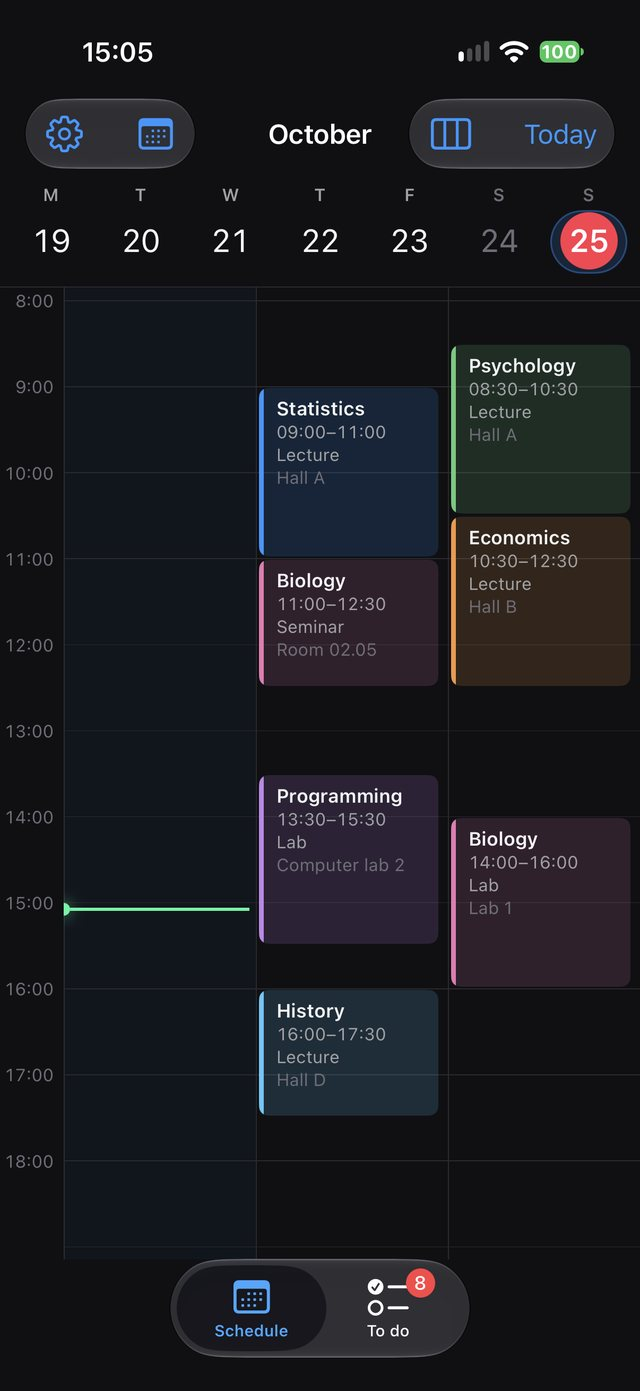
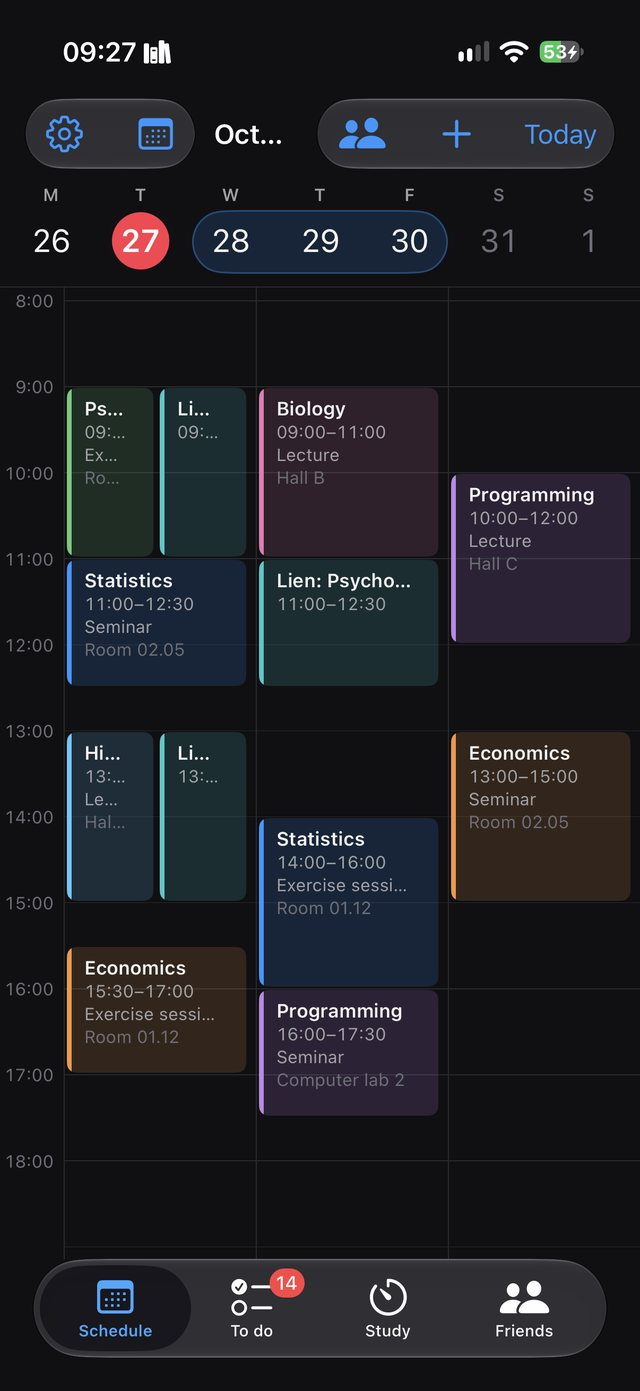
Website: screenshots van 1.2 in plaats van de oude
Rooster, studeermodus en vrienden met iPhone-screenshots van 1.2,
inhaalplan en 'overal' met iPad-screenshots van 1.2. Geen Mac-beelden
meer; de oude widget-sectie is een rij met extra functies geworden.

Claude-Session: https://claude.ai/code/session_01LexhzZ6Wy9ztQzGprxuc9f

diff --git a/index.html b/index.html
@@ -85,6 +85,7 @@ h2{font-size:clamp(36px,6.4vw,64px);line-height:1.05}
 .telefoons{display:flex;justify-content:center;align-items:flex-start;gap:clamp(16px,4vw,48px);margin-top:64px}
 .telefoon{width:min(300px,44vw);border-radius:clamp(26px,5.4vw,46px);overflow:hidden;background:#000;box-shadow:0 0 0 clamp(5px,1vw,9px) #1D1D1F,0 0 0 clamp(6px,1.15vw,10px) #3A3A3E,0 30px 60px -20px rgba(0,0,0,.45)}
 .telefoon.laag{margin-top:clamp(24px,6vw,64px)}
+.ipad{width:100%;max-width:980px;margin:64px auto 0;border-radius:clamp(14px,2.6vw,30px);overflow:hidden;background:#000;box-shadow:0 0 0 clamp(6px,1.2vw,12px) #1D1D1F,0 0 0 clamp(7px,1.35vw,13px) #3A3A3E,0 40px 80px -30px rgba(0,0,0,.55)}
 .mac{width:100%;max-width:980px;margin:64px auto 0;border-radius:14px;overflow:hidden;box-shadow:0 0 0 1px rgba(255,255,255,.08),0 40px 80px -30px rgba(0,0,0,.6)}
 .licht .mac{box-shadow:0 0 0 1px rgba(0,0,0,.08),0 40px 80px -30px rgba(0,0,0,.35)}
 
@@ -166,11 +167,10 @@ footer .rechts{margin-left:auto}
     <div class="kop op">
       <p class="oog blauw">Rooster</p>
       <h2>Je lessen, gewoon uit Agenda.</h2>
-      <p class="lead">Skipped leest je uurrooster uit Apple Agenda. Een gevolgde les kleurt <strong>blauw</strong>, een gemiste krijgt een <strong>rood</strong> pilletje, en de lijn toont waar je dag nu staat.</p>
+      <p class="lead">Skipped leest je uurrooster uit Apple Agenda. Een gevolgde les kleurt <strong>blauw</strong>, een gemiste krijgt een <strong>rood</strong> pilletje, en de lijn toont waar je dag nu staat. Wil je, dan zie je ook de lessen van een vriend in je rooster.</p>
     </div>
     <div class="telefoons op">
       <img class="telefoon" src="img/iphone-rooster.jpg" width="640" height="1391" alt="Weekrooster in Skipped met lessen per dag" loading="lazy">
-      <img class="telefoon laag" src="img/iphone-les.jpg" width="640" height="1391" alt="Een les met notitie en taken" loading="lazy">
     </div>
   </div>
 </section>
@@ -183,10 +183,7 @@ footer .rechts{margin-left:auto}
       <h2>Gemist? Je inhaalplan staat klaar.</h2>
       <p class="lead">Elke les die je mist, komt in <strong>Te doen</strong>, netjes per vak. Vink ze af zodra je ze ingehaald hebt, en zie per vak hoeveel je nog moet.</p>
     </div>
-    <div class="telefoons op">
-      <img class="telefoon" src="img/iphone-tedoen.jpg" width="640" height="1391" alt="Te doen: gemiste lessen per vak" loading="lazy">
-      <img class="telefoon laag" src="img/iphone-voortgang.jpg" width="640" height="1391" alt="Voortgang per vak" loading="lazy">
-    </div>
+    <img class="ipad op" src="img/ipad-voortgang.jpg" width="1800" height="1241" alt="Te doen en voortgang per vak op de iPad" loading="lazy">
   </div>
 </section>
 
@@ -197,7 +194,9 @@ footer .rechts{margin-left:auto}
       <h2>Focus, met de klok mee.</h2>
       <p class="lead">Start een blok voor een vak en Skipped houdt bij hoeveel je deze week studeerde. Wil je, dan blijven afleidende apps dicht tot je blok klaar is.</p>
     </div>
-    <img class="mac op" src="img/mac-studeren.jpg" width="1800" height="1125" alt="Studeermodus met timer en studietijd per week" loading="lazy">
+    <div class="telefoons op">
+      <img class="telefoon" src="img/iphone-studeren.jpg" width="640" height="1391" alt="Studeermodus met timer en studietijd per week" loading="lazy">
+    </div>
     <div class="feiten op">
       <div class="feit"><b>Jouw ritme</b><span>Vrij, pomodoro of een vaste tijd.</span></div>
       <div class="feit"><b>Altijd in zicht</b><span>De timer loopt mee op je toegangsscherm en in het Dynamic Island.</span></div>
@@ -213,19 +212,22 @@ footer .rechts{margin-left:auto}
       <h2>Samen hou je het vol.</h2>
       <p class="lead">Zie wie er nu aan het studeren is en hoeveel uur je vrienden maakten. Start een groep voor de examens en kijk wie het meest studeert. <strong>Jij kiest</strong> per vriend en per groep wat je deelt.</p>
     </div>
-    <img class="mac op" src="img/mac-vrienden.jpg" width="1800" height="862" alt="Vrienden en groepen in Skipped, met voorbeeldvrienden" loading="lazy">
+    <div class="telefoons op">
+      <img class="telefoon" src="img/iphone-vrienden.jpg" width="640" height="1391" alt="Vrienden in Skipped, met voorbeeldvrienden" loading="lazy">
+    </div>
   </div>
 </section>
 
-<section class="licht" id="widget">
+<section class="licht" id="meer">
   <div class="binnen">
     <div class="kop op">
-      <p class="oog blauw">Widgets</p>
-      <h2>Je dag in één oogopslag.</h2>
-      <p class="lead">Op je beginscherm zie je je volgende les en wat je nog moet inhalen. Afvinken kan meteen in de widget.</p>
+      <p class="oog blauw">En nog meer</p>
+      <h2>Alles wat je nodig hebt.</h2>
     </div>
-    <div class="telefoons op">
-      <img class="telefoon" src="img/iphone-widgets.jpg" width="640" height="1391" alt="Widgets van Skipped op het beginscherm" loading="lazy">
+    <div class="feiten op">
+      <div class="feit"><b>Widgets</b><span>Je volgende les en wat je nog moet inhalen, op je beginscherm. Afvinken kan meteen in de widget.</span></div>
+      <div class="feit"><b>Notities en taken</b><span>Bij elke les een notitie en taken, met een datum als je wilt.</span></div>
+      <div class="feit"><b>Focus</b><span>Koppel de studeermodus aan een Focus via Opdrachten.</span></div>
     </div>
   </div>
 </section>
@@ -237,7 +239,7 @@ footer .rechts{margin-left:auto}
       <h2>Overal hetzelfde rooster.</h2>
       <p class="lead">Via iCloud gaan je vakken, notities en studiesessies mee naar je andere toestellen. Je hoeft geen account te maken.</p>
     </div>
-    <img class="mac op" src="img/mac-rooster.jpg" width="1800" height="1125" alt="Skipped op de Mac met het weekrooster" loading="lazy">
+    <img class="ipad op" src="img/ipad-rooster.jpg" width="1800" height="1241" alt="Skipped op de iPad met het weekrooster" loading="lazy">
   </div>
 </section>
 
